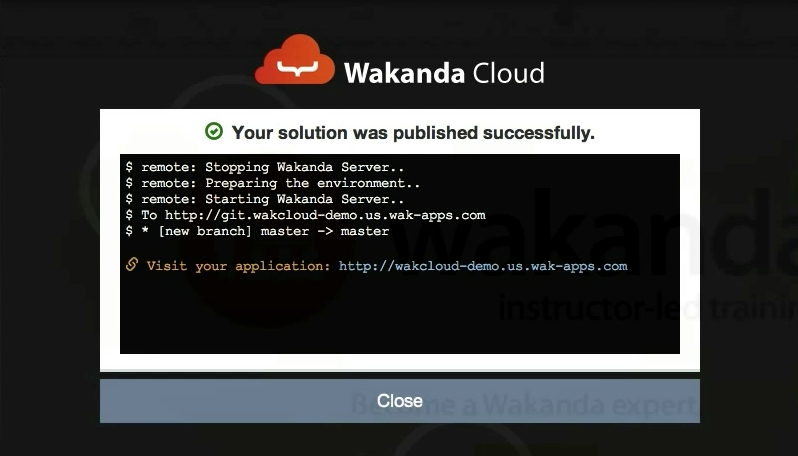
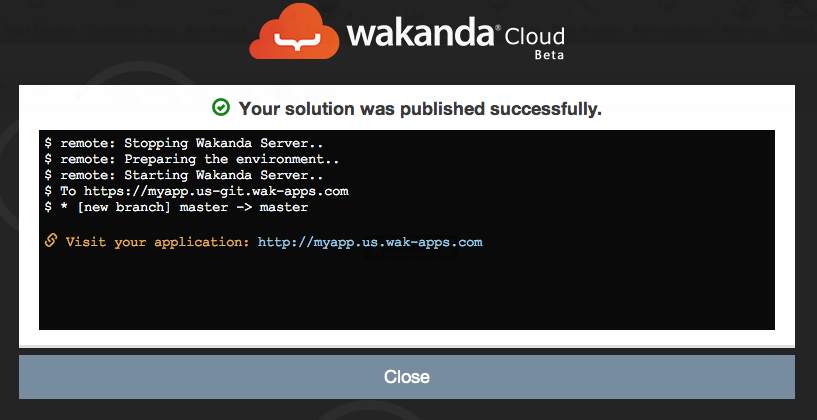
getting started update

diff --git a/docs/getting_started.rst b/docs/getting_started.rst
@@ -105,13 +105,15 @@ Using the command line
 
 Push your application to the remote repository using the following command ::
 
-    $ git push http://git.[my-application-name].us.wak-apps.com master
+https://myapp.us-git.wak-apps.com/
+
+    $ git push https://[my-application-name].us-git.wak-apps.com master
 
 .. note::
 
     If your local repository is using a branch name other than ``master``, you must use the following command to push your application to the remote repository ::
 
-    $ git push http://git.[my-application-name].us.wak-apps.com [local-branch-name]:master
+    $ git push https://[my-application-name].us-git.wak-apps.com [local-branch-name]:master
     
 .. _download: http://www.wakanda.org/downloads
 .. _installation: http://doc.wakanda.org/home2.fr.html#/Installing-Wakanda/Installing-Wakanda.100-689089.en.html
